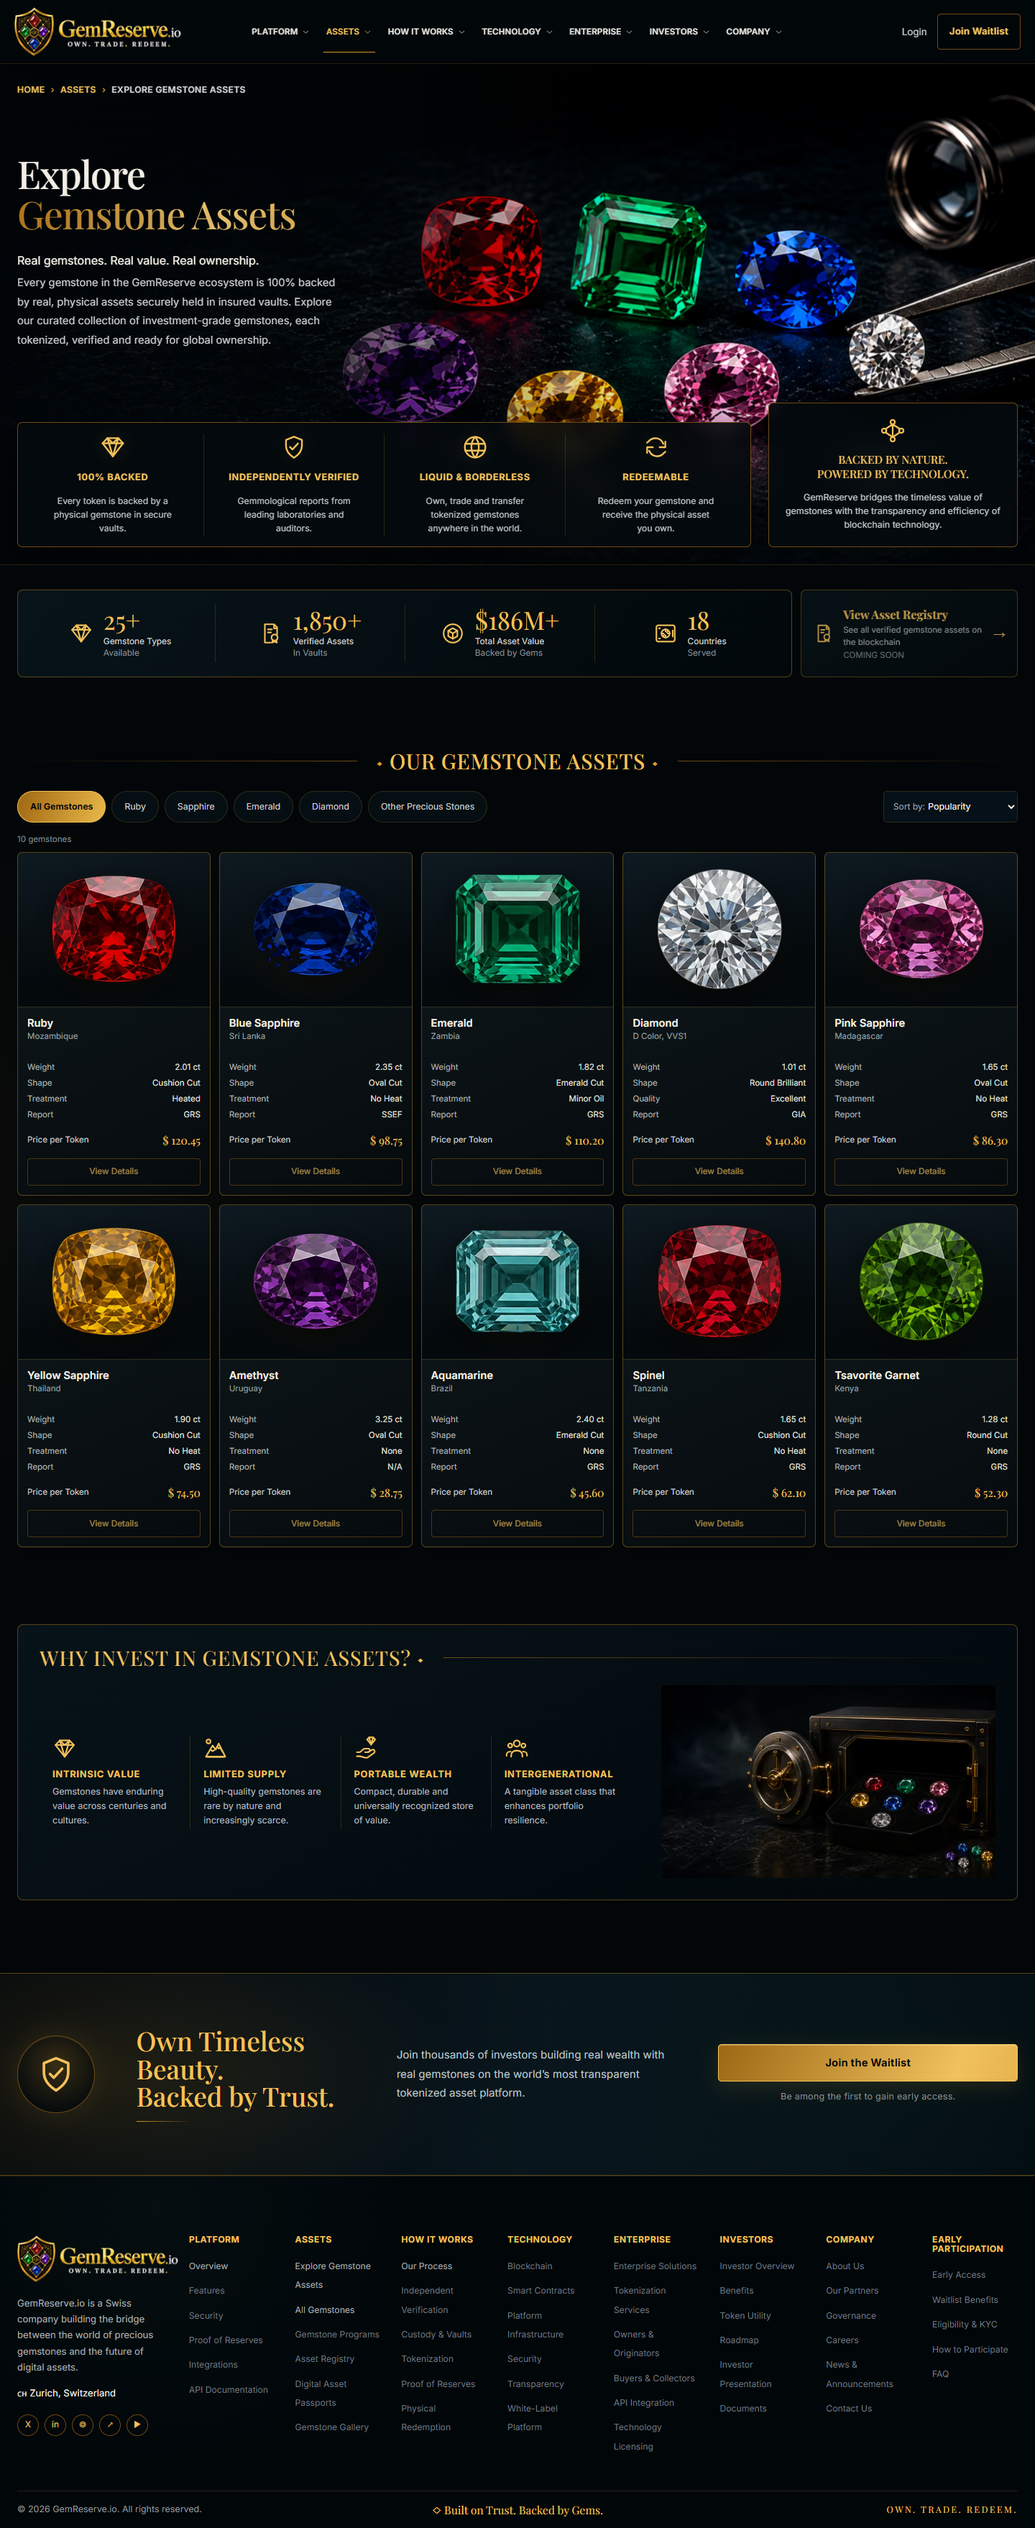
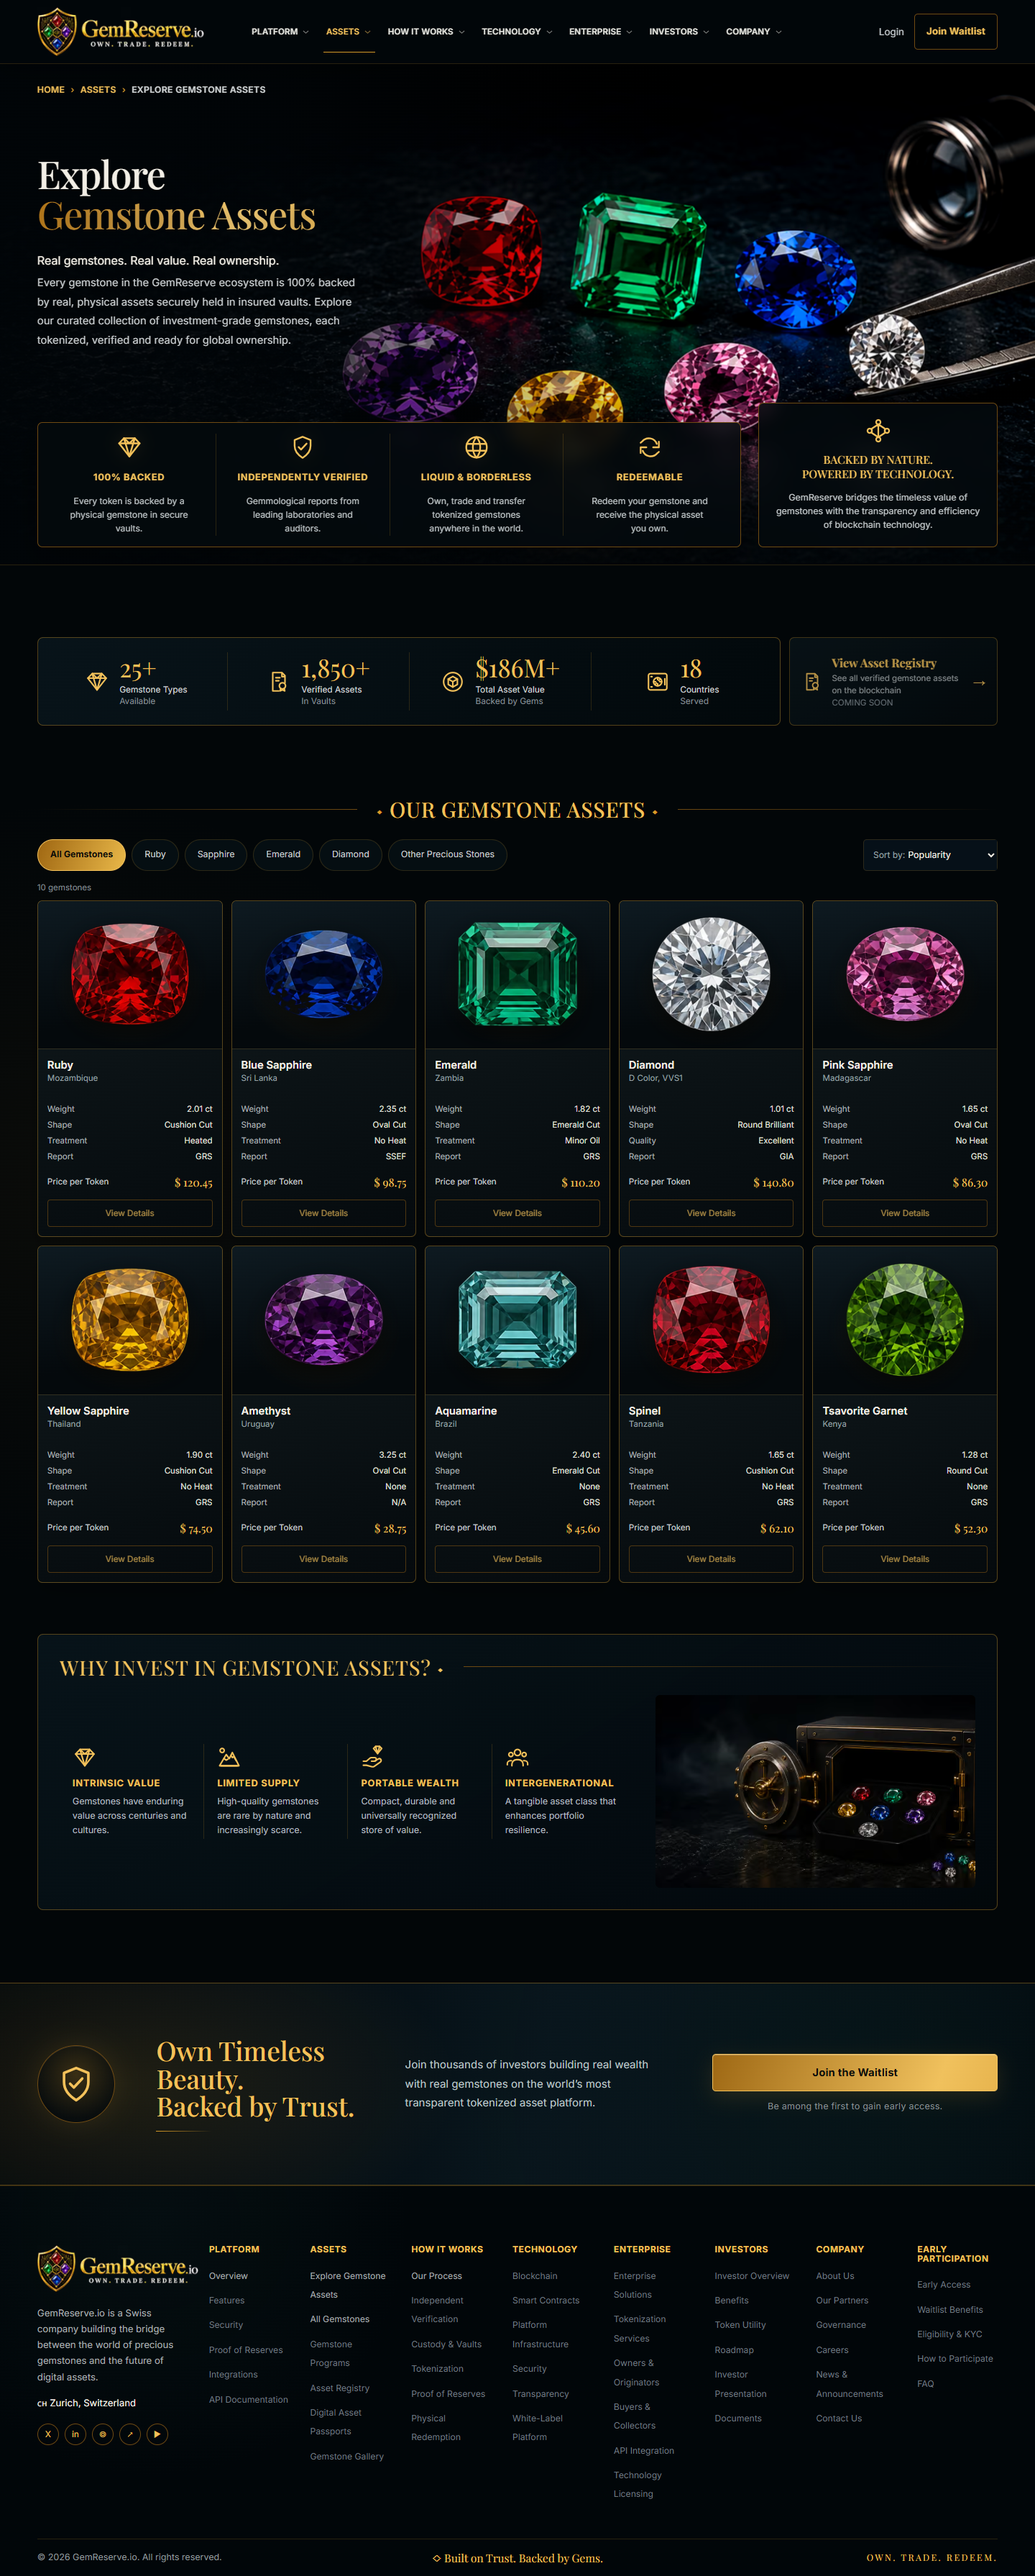
Put the whole site on one responsive container
Content sat about 24px from the glass on desktop and 14px on a phone,
which is what made the layout feel pressed and cheap. The insets were
also written four different ways — .container-wide at 48px total, the
header shell at 40px, the announcement bar at a hard 20px, and two mobile
overrides pinning 28px — so the header never quite lined up with the
content beneath it.

There is now a single --gutter token that every one of those reads from.
It resolves to 18px on a phone, 28px at tablet, 46-52px through the
common desktop range and 64px before the 1480px max-width takes over.
Measured across eight widths from 390 to 2560, the header and the section
content share the same left edge at every one, and no card or section
lands within 8px of a viewport edge.

Vertical rhythm got the same treatment: seven near-identical clamps
(70/7vw/110, 72/8vw/120, 68/7vw/108 and so on) collapse into one
--section-gap. Two real bugs surfaced while evening it out — the Assets
investment panel was picking the gap up twice, once as shared padding and
again as its own margin, and the metric strip sat on a hard 34px while
everything around it had the full gap. Section separation now measures a
steady 101px down all three pages.

Full-bleed backgrounds are untouched: the heroes, the closing CTA band
and the footer still run edge to edge, with only their content held to
the container line.

diff --git a/app/globals.css b/app/globals.css
@@ -14,6 +14,8 @@
   --border-soft: rgb(216 154 39 / 18%);
   --shadow: 0 24px 80px rgb(0 0 0 / 48%);
   --container: 1480px;
+  --gutter: clamp(18px, 3.6vw, 64px);
+  --section-gap: clamp(70px, 7vw, 112px);
   --ease-premium: cubic-bezier(0.22, 1, 0.36, 1);
 }
 
@@ -121,7 +123,7 @@ h3 {
 }
 
 .container-wide {
-  width: min(calc(100% - 48px), var(--container));
+  width: min(calc(100% - var(--gutter) * 2), var(--container));
   margin-inline: auto;
 }
 
@@ -283,7 +285,7 @@ h3 {
   grid-template-columns: auto 1fr auto;
   align-items: center;
   gap: 10px;
-  padding: 6px max(20px, calc((100vw - var(--container)) / 2));
+  padding: 6px max(var(--gutter), calc((100vw - var(--container)) / 2));
   border-bottom: 1px solid var(--border-soft);
   color: var(--gold-light);
   font-size: 0.72rem;
@@ -319,7 +321,7 @@ h3 {
   grid-template-columns: minmax(200px, 1fr) minmax(0, auto) minmax(200px, 1fr);
   align-items: center;
   gap: clamp(14px, 1.4vw, 30px);
-  width: min(calc(100% - 40px), var(--container));
+  width: min(calc(100% - var(--gutter) * 2), var(--container));
   margin-inline: auto;
 }
 
@@ -1256,9 +1258,8 @@ h3 {
 .how-power,
 .how-core,
 .assets-metrics,
-.assets-catalog,
-.assets-investment {
-  padding-top: clamp(70px, 7vw, 112px);
+.assets-catalog {
+  padding-top: var(--section-gap);
 }
 
 .home-process__timeline,
@@ -1365,12 +1366,12 @@ h3 {
 }
 
 .home-metrics {
-  padding-block: clamp(70px, 7vw, 110px) 0;
+  padding-block: var(--section-gap) 0;
 }
 
 .waitlist {
   position: relative;
-  margin-top: clamp(72px, 8vw, 120px);
+  margin-top: var(--section-gap);
   overflow: hidden;
   border-block: 1px solid var(--border);
   background:
@@ -1539,7 +1540,7 @@ h3 {
   display: grid;
   grid-template-columns: 1fr 1fr;
   gap: 16px;
-  padding-bottom: clamp(70px, 7vw, 110px);
+  padding-bottom: var(--section-gap);
 }
 
 .technology-security,
@@ -1692,7 +1693,7 @@ h3 {
     );
   align-items: center;
   gap: 32px;
-  margin-bottom: clamp(70px, 7vw, 110px);
+  margin-bottom: var(--section-gap);
   overflow: hidden;
   border: 1px solid var(--border);
   border-radius: 8px;
@@ -1891,7 +1892,7 @@ h3 {
 }
 
 .assets-metrics {
-  padding-top: 34px;
+  padding-top: var(--section-gap);
 }
 
 .assets-metrics__layout {
@@ -1942,7 +1943,7 @@ h3 {
 }
 
 .catalog-root {
-  padding-bottom: 6px;
+  padding-bottom: 0;
 }
 
 .catalog-heading-row {
@@ -2213,7 +2214,7 @@ h3 {
 }
 
 .assets-investment {
-  margin-top: clamp(70px, 7vw, 110px);
+  margin-top: calc(var(--section-gap) - 30px);
   padding: 30px;
   border: 1px solid var(--border);
   border-radius: 8px;
@@ -2280,7 +2281,7 @@ h3 {
 
 .assets-waitlist {
   position: relative;
-  margin-top: clamp(68px, 7vw, 108px);
+  margin-top: var(--section-gap);
   background:
     radial-gradient(
       ellipse 46% 120% at 12% 50%,
@@ -2598,10 +2599,6 @@ h3 {
 }
 
 @media (max-width: 980px) {
-  .container-wide {
-    width: min(calc(100% - 36px), var(--container));
-  }
-
   .hero__inner {
     grid-template-columns: minmax(290px, 0.9fr) 1fr;
   }
@@ -2682,7 +2679,6 @@ h3 {
     min-height: 78px;
     grid-template-columns: 1fr auto;
     gap: 12px;
-    width: calc(100% - 28px);
   }
 
   .site-nav-shell > .brand-logo {
@@ -3107,10 +3103,6 @@ h3 {
 }
 
 @media (max-width: 520px) {
-  .container-wide {
-    width: calc(100% - 28px);
-  }
-
   .hero {
     min-height: 900px;
   }
